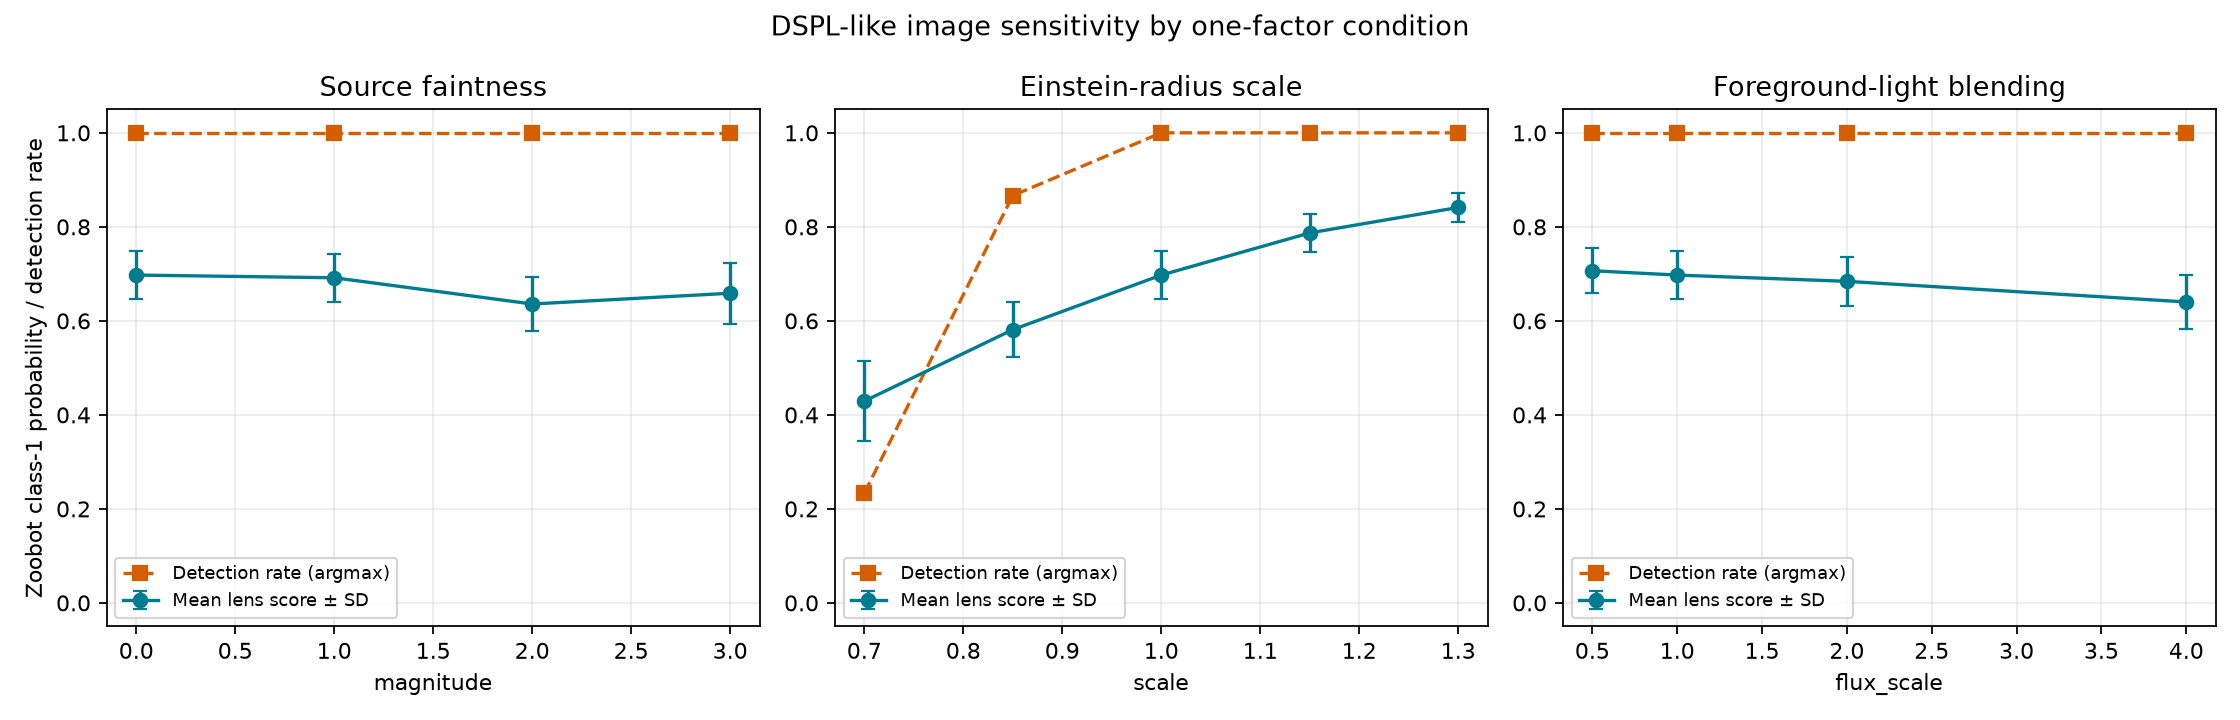
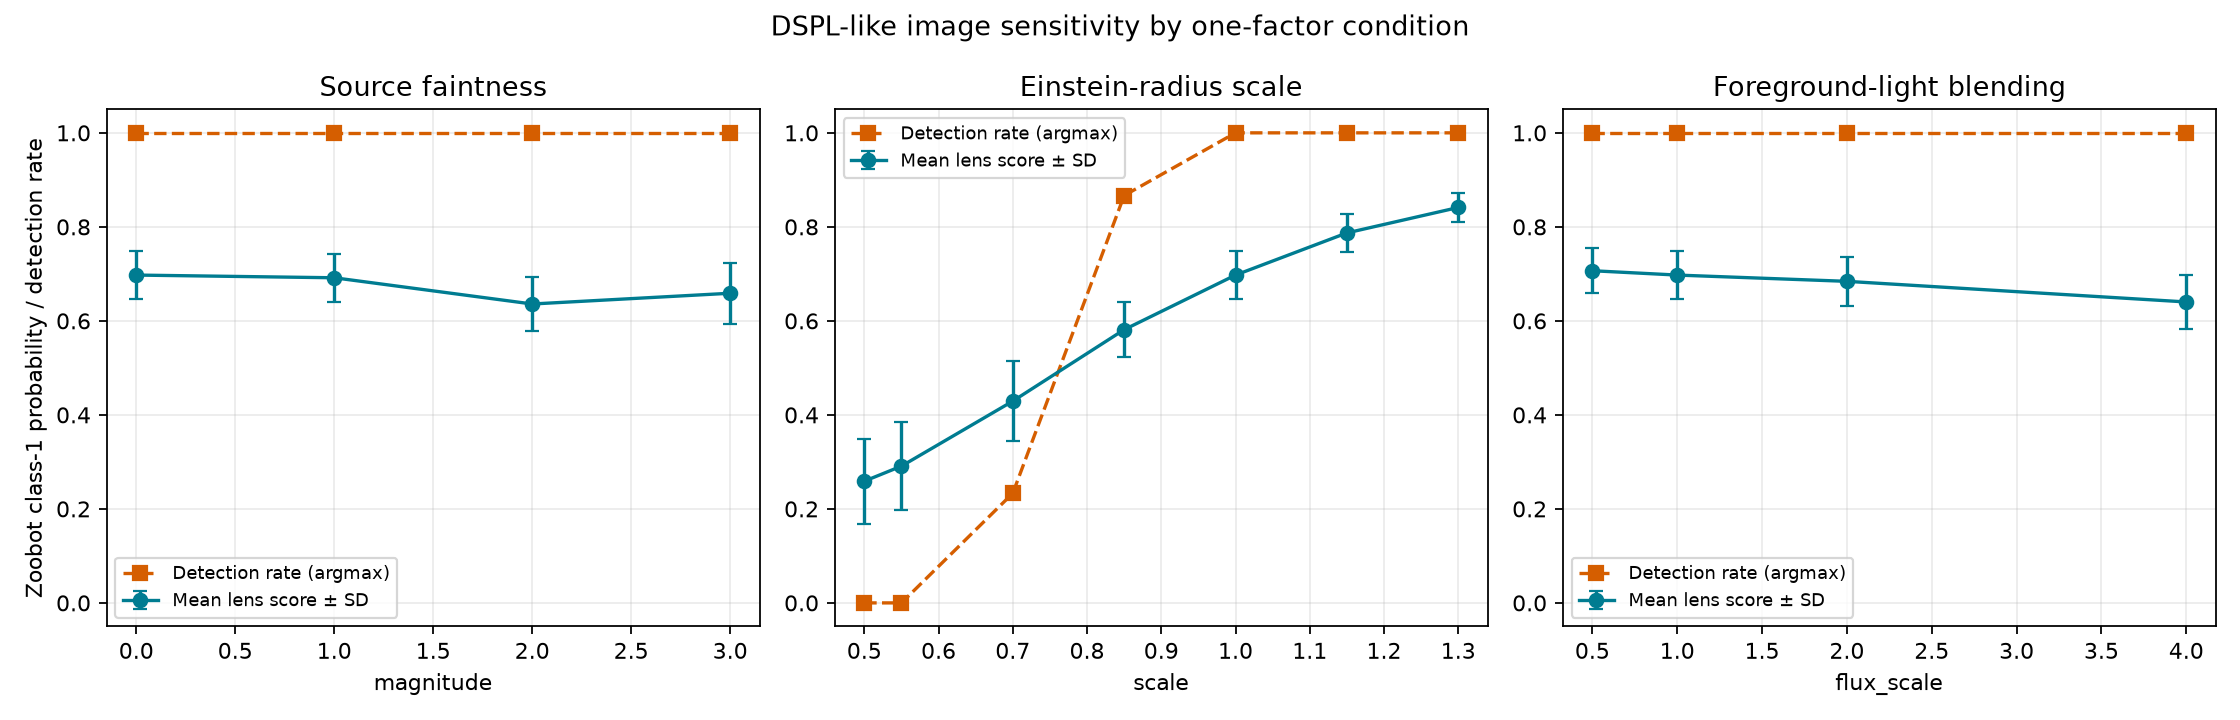
Test very small DSPL arcs

diff --git a/analyze_dspl_results.py b/analyze_dspl_results.py
@@ -84,6 +84,7 @@ def summarize_lens_categories(rows: list[dict[str, str]]) -> list[dict[str, obje
     categories = [
         ("Source brightness", "Bright/moderate", "Magnitude offset 0-1", "faintness", {0.0, 1.0}),
         ("Source brightness", "Faint", "Magnitude offset 2-3", "faintness", {2.0, 3.0}),
+        ("Arc size", "Very small arcs", "Einstein-radius scale 0.50-0.55", "arc_size", {0.5, 0.55}),
         ("Arc size", "Small arcs", "Einstein-radius scale 0.70-0.85", "arc_size", {0.7, 0.85}),
         ("Arc size", "Baseline arcs", "Einstein-radius scale 1.00", "arc_size", {1.0}),
         ("Arc size", "Large arcs", "Einstein-radius scale 1.15-1.30", "arc_size", {1.15, 1.3}),
@@ -146,6 +147,7 @@ def summarize_lens_categories(rows: list[dict[str, str]]) -> list[dict[str, obje
 
     reference_categories = {
         ("Source brightness", "Faint"): ("Source brightness", "Bright/moderate"),
+        ("Arc size", "Very small arcs"): ("Arc size", "Baseline arcs"),
         ("Arc size", "Small arcs"): ("Arc size", "Baseline arcs"),
         ("Arc size", "Large arcs"): ("Arc size", "Baseline arcs"),
         ("Foreground blending", "Low lens light"): ("Foreground blending", "Nominal lens light"),

diff --git a/generate_dspl_experiment.py b/generate_dspl_experiment.py
@@ -42,7 +42,7 @@ IMAGE_SETTINGS = {
 
 SWEEPS = {
     "faintness": ("source_magnitude_offset", (0.0, 1.0, 2.0, 3.0), "magnitude"),
-    "arc_size": ("theta_e_scale", (0.70, 0.85, 1.0, 1.15, 1.30), "scale"),
+    "arc_size": ("theta_e_scale", (0.50, 0.55, 0.70, 0.85, 1.0, 1.15, 1.30), "scale"),
     "blending": ("lens_light_flux_scale", (0.5, 1.0, 2.0, 4.0), "flux_scale"),
 }
 

diff --git a/README_DSPL_EXPERIMENT.md b/README_DSPL_EXPERIMENT.md
@@ -20,7 +20,7 @@ The lens/source assumptions are provisional, not established Ruby priors: one SI
 | Sensitivity factor | Tested values | Physical interpretation |
 | --- | --- | --- |
 | Source magnitude offset | 0, 1, 2, 3 mag | Each +1 mag makes the source about 2.512 times fainter. Source magnitudes are (21.5, 23.0), (22.5, 24.0), (23.5, 25.0), and (24.5, 26.0) for the two planes. |
-| Einstein-radius scale | 0.70, 0.85, 1.00, 1.15, 1.30 | Multiplies the 1.2 arcsec baseline, giving 0.84, 1.02, 1.20, 1.38, and 1.56 arcsec. |
+| Einstein-radius scale | 0.50, 0.55, 0.70, 0.85, 1.00, 1.15, 1.30 | Multiplies the 1.2 arcsec baseline, giving 0.60, 0.66, 0.84, 1.02, 1.20, 1.38, and 1.56 arcsec. |
 | Foreground-light flux scale | 0.5, 1, 2, 4 | Multiplies lens-galaxy flux; corresponding lens magnitudes are 21.503, 20.750, 19.997, and 19.245. This varies foreground brightness only; it does not vary source-lens separation, neighboring objects, or overlap geometry. |
 | Negative controls | theta_E = 0.01 arcsec, label 0 | Same general source/lens-light setup with negligible lensing. These test rejection of this specific weak-lens case, not broad real-world non-lens contamination. |
 | Replicates | 5 per positive condition | 13 positive conditions x 5 = 65 DSPL-like images; plus 5 negative controls = 70 images total. |
@@ -52,7 +52,7 @@ python run_zoobot_inference.py --manifest dspl_experiment/expanded_30rep/simulat
 python analyze_dspl_results.py --scores dspl_experiment/expanded_30rep/zoobot_scores.csv --output-dir dspl_experiment/expanded_30rep
 ```
 
-This design writes 390 positive condition images (13 conditions x 30 paired replicates) plus 100 negative controls, 490 condition rows total. PNGs are stored with the original DSPL pilot under `dspl_experiment/images/{faintness,arc_size,blending,negative_control}`. The first five replicates reuse byte-identical pilot images; the remaining replicates are added alongside them. The same 30 baseline scenes are shared across the three sweeps, so the expanded run has 430 unique image contents (330 positive, 100 controls). The original 70-image pilot manifest and scores remain unchanged.
+This design writes 450 positive condition images (15 conditions x 30 paired replicates) plus 100 negative controls, 550 condition rows total. PNGs are stored with the original DSPL pilot under `dspl_experiment/images/{faintness,arc_size,blending,negative_control}`. The first five replicates reuse byte-identical pilot images; the remaining replicates are added alongside them. The same 30 baseline scenes are shared across the three sweeps, so the expanded run has 490 unique image contents (390 positive, 100 controls). The original 70-image pilot manifest and scores remain unchanged.
 
 ## Zoobot inference status
 
@@ -142,7 +142,7 @@ The categories within each feature are compared only within that feature's sweep
 
 ## Expanded 30-replicate follow-up
 
-The follow-up used the same one-epoch checkpoint and the same argmax class decision. Each condition has 30 paired replicates; there are 390 positive condition rows and 100 negative-control rows. The three baseline settings share the same 30 scenes across sweeps, so row-level totals weight those baseline scenes three times. Unique-image metrics deduplicate identical rendered PNGs.
+The follow-up used the same one-epoch checkpoint and the same argmax class decision. Each condition has 30 paired replicates; there are 450 positive condition rows and 100 negative-control rows. The three baseline settings share the same 30 scenes across sweeps, so row-level totals weight those baseline scenes three times. Unique-image metrics deduplicate identical rendered PNGs.
 
 ### How to read the units and metrics
 
@@ -151,25 +151,25 @@ The follow-up used the same one-epoch checkpoint and the same argmax class decis
 | `lens_score`, mean, median, SD | Unitless score on a 0-1 scale | Zoobot's class-1 softmax output, where class 1 means lens. It is not guaranteed to be calibrated as a probability. SD is the sample standard deviation of scores within a condition. |
 | Detection / recall | Percent of positive examples classified as class 1 | Uses argmax: the image is called a lens when class 1 has the larger score. It is not a separately tuned threshold. |
 | False-positive rate (FPR) | Percent of label-0 controls classified as class 1 | Reported separately from lens detection rate. |
-| False negative (FN) | Count of label-1 lenses classified as class 0 | In the expanded run there are 27 unique FNs; all are from small-arc conditions. |
+| False negative (FN) | Count of label-1 lenses classified as class 0 | In the expanded run there are 87 unique FNs; all are from the smallest arc conditions (scales 0.50, 0.55, 0.70, and 0.85). |
 | Magnitude offset | Magnitudes (`mag`) added to both sources | Higher magnitude means fainter light; +1 mag is about 2.512 times less flux. |
 | Einstein-radius scale | Unitless multiplier of the 1.20 arcsec baseline | For example, 0.70 means $0.70 \times 1.20 = 0.84$ arcsec, not 0.70 arcsec. |
 | Foreground-light flux scale | Unitless multiple of baseline lens-galaxy flux | For example, 4 means four times the baseline foreground light. |
 | Lensed source flux | Lenstronomy model flux units | Sum of the modeled lensed source light, not calibrated detector counts or magnitudes. |
 | `n` / condition rows | Number of manifest entries at a setting | There are 30 entries per positive condition. Identical baseline scenes are intentionally shared across sweeps. |
-| Unique images | Distinct rendered image contents | The 490 condition rows correspond to 430 unique image contents because the three sweep baselines reuse the same 30 scenes. |
+| Unique images | Distinct rendered image contents | The 550 condition rows correspond to 490 unique image contents because the three sweep baselines reuse the same 30 scenes. |
 
-The 27 false negatives are 23/30 at scale 0.70 (0.84 arcsec) and 4/30 at scale 0.85 (1.02 arcsec). Row-based recall (363/390 = 93.08%) counts shared baseline scenes in each sweep; deduplicated recall (303/330 = 91.82%) counts each rendered image once. Both are synthetic-data summaries, not estimates from observed lenses.
+The 87 false negatives are 30/30 at scale 0.50 (0.60 arcsec), 30/30 at scale 0.55 (0.66 arcsec), 23/30 at scale 0.70 (0.84 arcsec), and 4/30 at scale 0.85 (1.02 arcsec). Row-based recall (363/450 = 80.67%) counts shared baseline scenes in each sweep; deduplicated recall (303/390 = 77.69%) counts each rendered image once. Both are synthetic-data summaries, not estimates from observed lenses.
 
 | Measure | Across condition rows | Deduplicated unique images | Meaning |
 | --- | ---: | ---: | --- |
-| Positive / control examples | 390 / 100 | 330 / 100 | There are 490 manifest rows and 430 unique image contents. |
-| True positive / false negative | 363 / 27 | 303 / 27 | Positive images classified as lens / missed. |
+| Positive / control examples | 450 / 100 | 390 / 100 | There are 550 manifest rows and 490 unique image contents. |
+| True positive / false negative | 363 / 87 | 303 / 87 | Positive images classified as lens / missed. |
 | True negative / false positive | 100 / 0 | 100 / 0 | Controls classified correctly / incorrectly flagged as lenses. |
-| Positive detection rate (recall) | 93.08% | 91.82% | Deduplicated estimate counts each rendered image once. |
+| Positive detection rate (recall) | 80.67% | 77.69% | Deduplicated estimate counts each rendered image once. |
 | Negative-control false-positive rate | 0/100 = 0% | 0/100 = 0% | Wilson 95% interval is 0-3.7%; zero observed is not proof of zero real-world contamination. |
-| Overall accuracy | 94.49% | 93.72% | Correct classifications divided by rows or unique images; synthetic data only. |
-| Mean lens score, positives / controls | 0.6730 / 0.1993 | See category means below | Class-1 softmax output; not guaranteed calibrated. |
+| Overall accuracy | 84.18% | 82.24% | Correct classifications divided by rows or unique images; synthetic data only. |
+| Mean lens score, positives / controls | 0.6199 / 0.1993 | See category means below | Class-1 softmax output; not guaranteed calibrated. |
 
 Per-condition results (mean +/- sample SD and median lens score):
 
@@ -179,6 +179,8 @@ Per-condition results (mean +/- sample SD and median lens score):
 | Faintness offset (mag) | 1 | 30 | 0.692 +/- 0.051 | 0.684 | 30/30 (100%) | -0.006 / 0 pp |
 | Faintness offset (mag) | 2 | 30 | 0.636 +/- 0.058 | 0.634 | 30/30 (100%) | -0.062 / 0 pp |
 | Faintness offset (mag) | 3 | 30 | 0.659 +/- 0.065 | 0.661 | 30/30 (100%) | -0.039 / 0 pp |
+| Arc-radius scale | 0.50 | 30 | 0.259 +/- 0.091 | 0.243 | 0/30 (0%) | -0.438 / -100 pp |
+| Arc-radius scale | 0.55 | 30 | 0.291 +/- 0.093 | 0.280 | 0/30 (0%) | -0.406 / -100 pp |
 | Arc-radius scale | 0.70 | 30 | 0.429 +/- 0.085 | 0.437 | 7/30 (23.3%) | -0.268 / -76.7 pp |
 | Arc-radius scale | 0.85 | 30 | 0.581 +/- 0.059 | 0.586 | 26/30 (86.7%) | -0.116 / -13.3 pp |
 | Arc-radius scale | 1.00 | 30 | 0.697 +/- 0.051 | 0.696 | 30/30 (100%) | 0.000 / 0 pp |
@@ -196,6 +198,7 @@ Grouped sensitivity categories use Wilson 95% intervals. The categories are prop
 | --- | ---: | ---: | ---: | --- |
 | Bright/moderate sources, offsets 0-1 mag | 60/60 | 100% (94.0-100%) | 0.695 | No misses in this bin; the interval still allows a nonzero miss rate. |
 | Faint sources, offsets 2-3 mag | 60/60 | 100% (94.0-100%) | 0.647 | Mean score is 0.047 below the brighter bin; retain faint cases and retest. |
+| Very small arcs, radius scales 0.50-0.55 | 0/60 | 0% (0-6.0%) | 0.275 | The model missed every very small arc in this synthetic test; strongest sensitivity gap. |
 | Small arcs, radius scales 0.70-0.85 | 33/60 | 55.0% (42.5-66.9%) | 0.505 | Persistent sensitivity gap; prioritize small arcs in training/evaluation coverage. |
 | Baseline arcs, radius scale 1.00 | 30/30 | 100% (88.6-100%) | 0.697 | Reference bin; no misses in 30 paired examples. |
 | Large arcs, radius scales 1.15-1.30 | 60/60 | 100% (94.0-100%) | 0.814 | Strong detection in these simulations; validate on independent data. |
@@ -204,7 +207,7 @@ Grouped sensitivity categories use Wilson 95% intervals. The categories are prop
 | High foreground light, scales 2-4 | 60/60 | 100% (94.0-100%) | 0.662 | Mean score is 0.035 below nominal; detection remained complete in this sample. |
 | Negative controls | 0/100 flagged | 0% FPR (0-3.7%) | 0.199 | Better constrained than the 5-control pilot, but these are weak-lens controls, not a diverse non-lens galaxy sample. |
 
-Across faintness offsets, all 120 examples were detected; mean scores dipped at +2 mag and rose slightly at +3, so the score trend is not monotonic. Across blending settings, all 120 examples were detected while the mean score declined from 0.697 at nominal foreground light to 0.640 at scale 4. Arc size remains the main weakness: detection was 7/30 at scale 0.70 and 26/30 at 0.85, compared with 30/30 at baseline and larger scales.
+Across faintness offsets, all 120 examples were detected; mean scores dipped at +2 mag and rose slightly at +3, so the score trend is not monotonic. Across blending settings, all 120 examples were detected while the mean score declined from 0.697 at nominal foreground light to 0.640 at scale 4. Arc size is the dominant weakness: detection was 0/30 at scales 0.50 and 0.55, 7/30 at scale 0.70, and 26/30 at scale 0.85, compared with 30/30 at baseline and larger scales.
 
 The expanded faintness-sweep mean lensed-flux contributions were:
 
